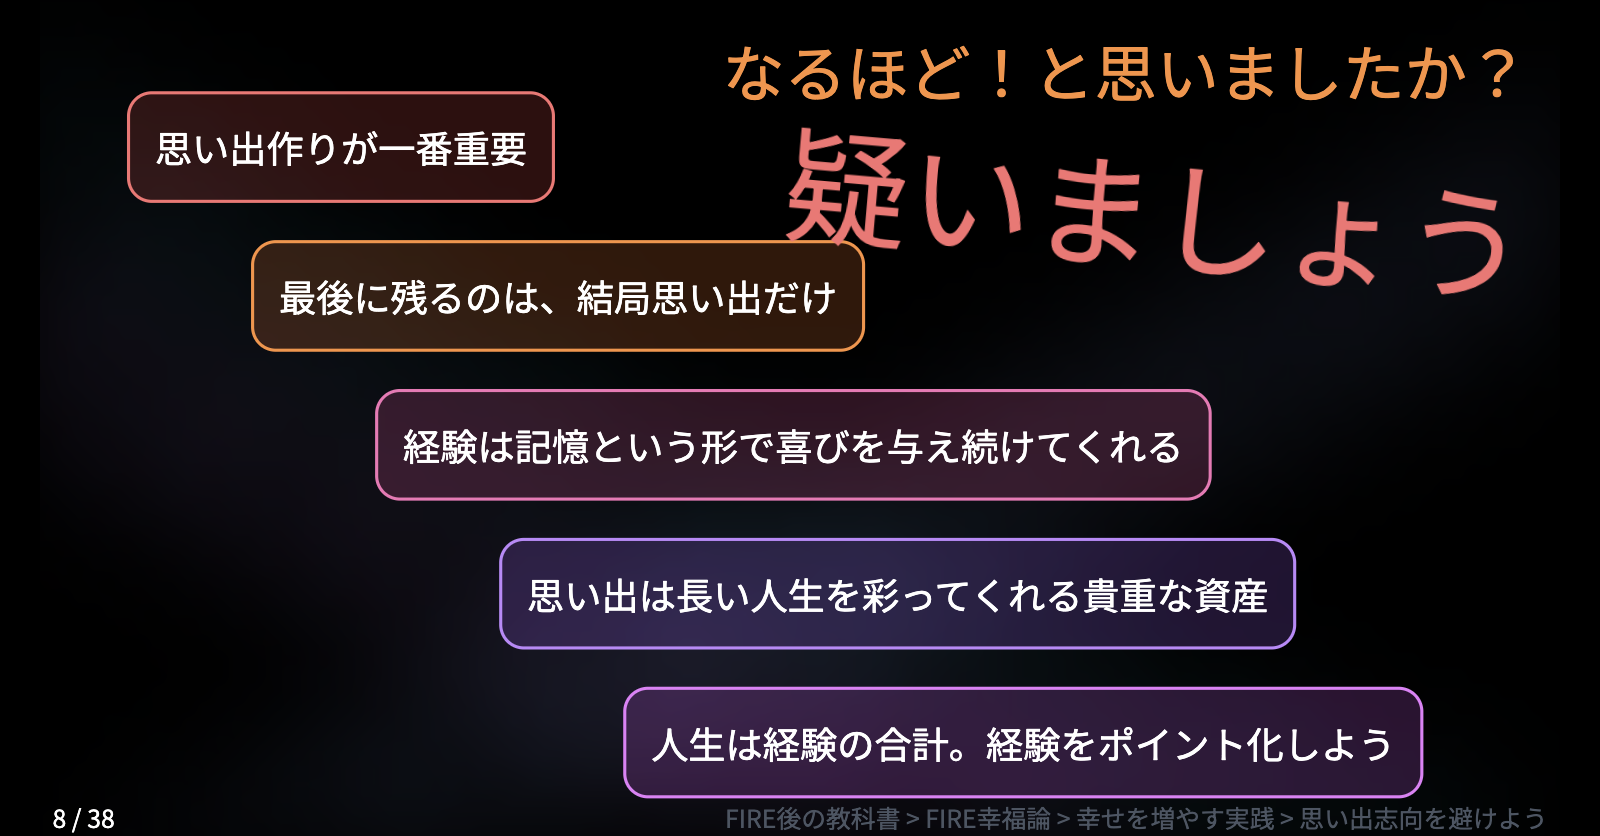
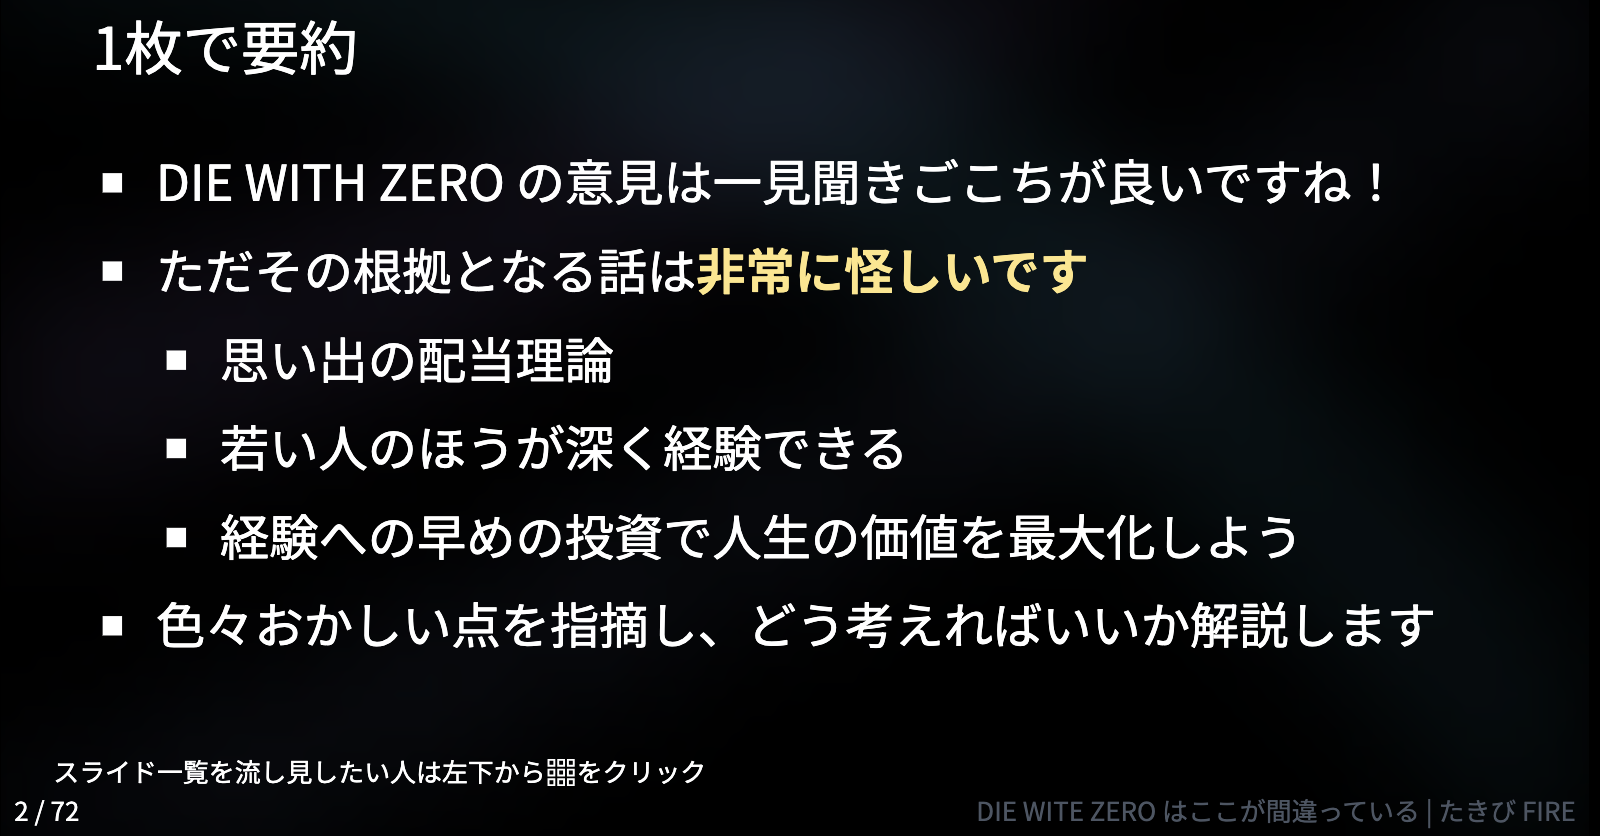
Finalize v1 of flaws-in-die-with-zero

diff --git a/flaws-in-die-with-zero/index.html b/flaws-in-die-with-zero/index.html
@@ -9,16 +9,16 @@
   </script>
   <meta charset="UTF-8" />
   <meta name="viewport" content="width=device-width, initial-scale=1.0" />
-  <title>思い出志向を避けよう | FIRE後の教科書 | たきび FIRE</title>
-  <meta name="description" content="「良い人生＝良い思い出の数」という考え方は本当に正しいのでしょうか？本スライドでは、『DIE WITH ZERO』で提唱された「記憶の配当」のような思い出志向の考え方の落とし穴を、心理学の知見から解説します。ダニエル・カーネマンの「ピーク・エンドの法則」や「経験する自己と記憶する自己」の概念を通じて、私たちの記憶がいかに不確かであるかを解明。人生の大部分を占める「思い出に残らない日常」を大切にすることこそが、真の幸福への鍵であることを探求します。">
-  <meta name="keywords" content="FIRE, 幸福, 思い出, ピーク・エンドの法則, 経験, 記憶, 記憶の配当, DIE WITH ZERO, ダニエル・カーネマン, ウェルビーイング, 心理学">
+  <title>DIE WITE ZERO はここが間違っている | たきび FIRE</title>
+  <meta name="description" content="『DIE WITH ZERO』が提唱する「思い出作り」「記憶の配当」「経験の最大化」といった概念の誤りを、心理学（ピーク・エンドの法則、経験する自己と記憶する自己）や統計データ（高齢者の後悔）を用いて指摘します。「人生の目的は思い出作り」という主張がなぜ支持されるのか、その心理的背景を分析し、快楽のトレッドミルに陥らないための真の幸福論（過程を楽しむ、なりたい自分になる）を解説します。">
+  <meta name="keywords" content="DIE WITH ZERO, 記憶の配当, ピーク・エンドの法則, 経験ポイント, 幸福論, FIRE, 心理学, ダニエル・カーネマン, 思い出作り, 後悔">
   <!-- OGPの設定 -->
   <meta property="og:type" content="website" />
-  <meta property="og:title" content="思い出志向を避けよう | FIRE後の教科書 | たきび FIRE" />
-  <meta property="og:description" content="「良い人生＝良い思い出の数」という考え方は本当に正しいのでしょうか？本スライドでは、『DIE WITH ZERO』で提唱された「記憶の配当」のような思い出志向の考え方の落とし穴を、心理学の知見から解説します。ダニエル・カーネマンの「ピーク・エンドの法則」や「経験する自己と記憶する自己」の概念を通じて、私たちの記憶がいかに不確かであるかを解明。人生の大部分を占める「思い出に残らない日常」を大切にすることこそが、真の幸福への鍵であることを探求します。" />
-  <meta property="og:url" content="https://takibi-fire.com/slides/fire-peak-end/" />
+  <meta property="og:title" content="DIE WITE ZERO はここが間違っている | たきび FIRE" />
+  <meta property="og:description" content="『DIE WITH ZERO』が提唱する「思い出作り」「記憶の配当」「経験の最大化」といった概念の誤りを、心理学（ピーク・エンドの法則、経験する自己と記憶する自己）や統計データ（高齢者の後悔）を用いて指摘します。「人生の目的は思い出作り」という主張がなぜ支持されるのか、その心理的背景を分析し、快楽のトレッドミルに陥らないための真の幸福論（過程を楽しむ、なりたい自分になる）を解説します。" />
+  <meta property="og:url" content="https://takibi-fire.com/slides/flaws-in-die-with-zero/" />
   <meta property="og:site_name" content="たきび FIRE" />
-  <meta property="og:image" content="https://takibi-fire.com/slides/fire-peak-end/imgs/thumbnail.png?r=3" />
+  <meta property="og:image" content="https://takibi-fire.com/slides/flaws-in-die-with-zero/imgs/thumbnail.png?r=3" />
   <!-- Twitterカードの設定 -->
   <meta name="twitter:card" content="summary_large_image" />
   <meta name="twitter:site" content="@takibi333" />

diff --git a/flaws-in-die-with-zero/slides.md b/flaws-in-die-with-zero/slides.md
@@ -1570,19 +1570,57 @@ layout: cover
 
 ---
 
-# アドバイス②： 経験を深めるには経験が必要
+# アドバイス②： 経験を深めるには
 
-* 経験をする時に「どうやったら満足度を高められるか」を考えるのは重要
-  * 食事→ゆっくり味わう、旅行→現地生活を味わってみる、など
-* 何事も、繰り返して極めていくと「違いが分かって」きます
-  * 「通」しかわからない楽しみ方！
+DIE WITH ZERO の「経験は早めにするべき」という主張は良いと思います。<br>ただし理由は「若い時の方が深く経験できるから」「思い出の配当があるから」ではありません。
+
+<fieldset border-purple border-2 rounded-4 bg-purple-500 bg-opacity-20 my-3
+  text-9 text-center w-fit px-10 m-auto>
+
+経験を深めるためには経験が必要です
+</fieldset>
+
+* 何事も繰り返して極めていくと「通」しかわからない<u decoration-wavy decoration-orange>違いが分かってきます</u>
   * 例: たくさんの旅をして初めて気づく着眼点
   * 違いがわかる → 視野・好奇心が広がる → 長期的満足へ
-* 経験を深めるのは「若さ」ではなく「経験」。この理由での「早めの経験」はオススメする。
 
 <div text-5>
 
 参考: [ひとりあそびを極めよう | FIRE後の教科書](https://takibi-fire.com/slides/fire-solo-play/)
+</div>
+
+---
+
+<style scoped>
+.slidev-layout {
+  font-size: 175%;
+}
+</style>
+
+# アドバイス②： 過程を楽しむ気持ちが大事
+
+<div grid grid-cols-2 gap-8 text-7>
+
+<div mx-10 col-span-2 p-4 border-1 rounded-3 bg-yellow-500 bg-opacity-10>
+<h3 text-red-300 text-center><span text-8>テーマ: やりたいことの満足度を限りなく上げる</span></h3>
+</div>
+
+<div p-3 border-1 rounded-3 bg-green-500 bg-opacity-10>
+<h3 text-green-300>五感を鍛える</h3>
+<p mt-4>「食べる」「歩く」といった<br>日常の<span text-yellow-300>「過程」</span>そのものの<br>解像度を上げ、満足度を高める
+</p>
+</div>
+
+<div p-3 border-1 rounded-3 bg-purple-500 bg-opacity-10>
+<h3 text-purple-300>過程を楽しむ</h3>
+<p mt-4>やりたいことの達成よりも、<br>そこに至るまでの<span text-yellow-300>「過程」</span>に<br>楽しみや喜びを見出す
+</p>
+</div>
+</div>
+
+<div text-6>
+
+参考: [どんどん寄り道しよう・達成よりも過程を楽しもう | FIRE後の教科書](https://takibi-fire.com/slides/fire-side-trip/)
 </div>
 
 ---
@@ -1596,15 +1634,70 @@ layout: cover
 思い出に残らない日々を有意義にしよう
 </fieldset>
 
-* 人生の99%は記憶に残らない
-* 人生の満足度を上げるなら<u decoration-wavy decoration-orange>「記憶に残らない部分をどれだけ幸せに生きるか」という視点を持とう</u> <carbon-ArrowRight/> [FIRE後の教科書](https://takibi-fire.com/slides/fire-textbook/) へ
+* 人生のほぼ全ては記憶に残らない
+* 人生の満足度を上げるなら<u decoration-wavy decoration-orange>「記憶に残らない部分をどれだけ幸せに生きるか」という視点を持とう</u><carbon-ArrowRight/> [FIRE後の教科書](https://takibi-fire.com/slides/fire-textbook/) へ
+  * 「今を生きる」
 
-<div text-5 mt-10>
+<div text-6 mt-10>
 
 参考: [思い出志向を避けよう | FIRE後の教科書](https://takibi-fire.com/slides/fire-peak-end/)
 </div>
 
 ---
 
-# アドバイス④: 「やりたいこと」ではなく「なりたい自分へ」
+# アドバイス④:<br>「やりたいこと」ではなく「なりたい自分へ」
+
+<div text-7>
+『自分にとって重要なことを明確にしなさい』の話。
+</div>
+
+FIRE後の教科書第6章「人生の意味」で詳しく解説予定。
+<span text-red>2026/02/07: 未完</span>
+
+---
+
+# アドバイス④: なぜなぜ法
+
+* 子どもが聞くみたいになぜなぜと聞く (出典: [意味を見つける5つの方法](https://www.psychologytoday.com/us/blog/unnatural-selection/202101/5-tips-finding-meaning-in-regular-old-life))
+  * あなたが思ういい人とは？ なぜ？を最低2回聞く
+  * いつ・どこにいるのが快適？　なぜ？なぜ？
+  * あなたにとって理想の一日とは？ なぜ？なぜ？
+
+* 豪華客船が好き → なぜ？<br>「豪華にもてなしてくれるのが好きだから」 → なぜ？
+* 豪華客船が好き → なぜ？<br>「海風も新しい景色も好きだから」 → なぜ？
+
+2回聞くと自分が大切にしているものが見えてき始めます
+
+---
+
+# アドバイス④:<br>やりたいことリストから「なりたい自分リスト」へ
+
+* 「BBQ が好き」→なぜ？<br>
+「みんなで笑える空間が好きだから」→なぜ？<span v-click=1><br>「人を楽しませるのが好きだから」</span>
+
+<div grid grid-cols-11>
+
+<fieldset col-span-5 v-click=2
+  border-2 rounded-4 bg-opacity-20
+  border-red bg-red-500
+  my-6 px-6 py-2 text-7>
+  <legend text-center>やりたいことリスト</legend>
+
+* 豪華客船!
+* BBQ!
+</fieldset>
+
+<div v-click=3 w-fit m-auto><carbon-ArrowRight/></div>
+
+<fieldset col-span-5 v-click=4
+  border-2 rounded-4 bg-opacity-20
+  border-green bg-green-500
+  my-6 px-6 py-2 text-7>
+  <legend text-center>なりたい自分リスト</legend>
+
+* 自然・景色を楽しむ
+* 人を楽しませる
+</fieldset>
+
+</div>
 